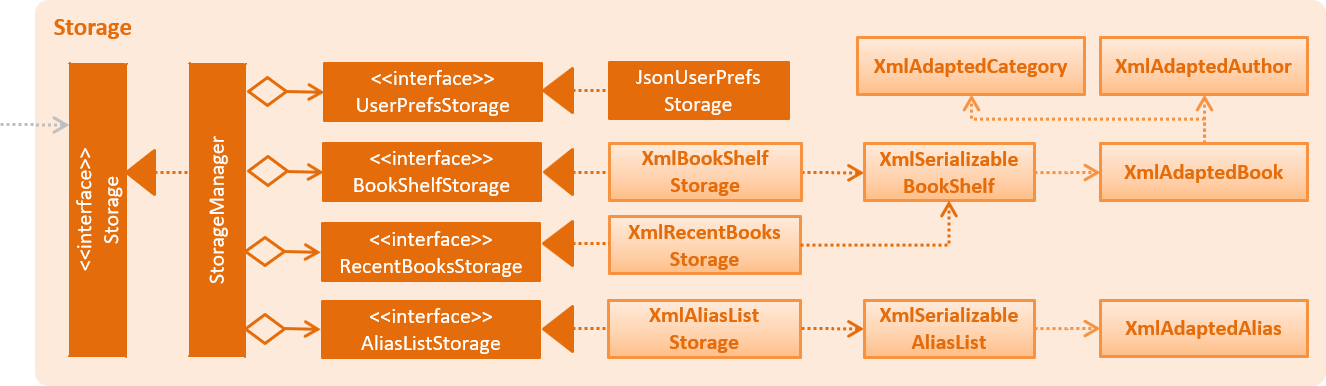
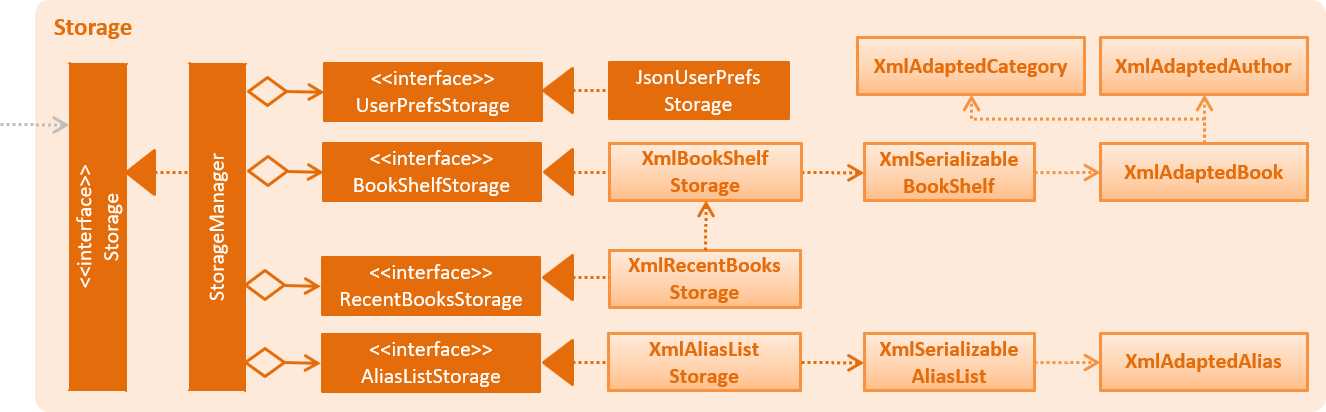
Remove duplicated code in XmlRecentBooksStorage, update class diagram (#167)

diff --git a/src/main/java/seedu/address/storage/XmlRecentBooksStorage.java b/src/main/java/seedu/address/storage/XmlRecentBooksStorage.java
@@ -1,17 +1,10 @@
 package seedu.address.storage;
 
-import static java.util.Objects.requireNonNull;
-
-import java.io.File;
 import java.io.FileNotFoundException;
 import java.io.IOException;
 import java.util.Optional;
-import java.util.logging.Logger;
 
-import seedu.address.commons.core.LogsCenter;
 import seedu.address.commons.exceptions.DataConversionException;
-import seedu.address.commons.exceptions.IllegalValueException;
-import seedu.address.commons.util.FileUtil;
 import seedu.address.model.ReadOnlyBookShelf;
 
 //@@author qiu-siqi
@@ -20,21 +13,19 @@ import seedu.address.model.ReadOnlyBookShelf;
  */
 public class XmlRecentBooksStorage implements RecentBooksStorage {
 
-    private static final Logger logger = LogsCenter.getLogger(XmlRecentBooksStorage.class);
-
-    private String filePath;
+    private XmlBookShelfStorage xmlBookShelfStorage;
 
     public XmlRecentBooksStorage(String filePath) {
-        this.filePath = filePath;
+        xmlBookShelfStorage = new XmlBookShelfStorage(filePath);
     }
 
     public String getRecentBooksFilePath() {
-        return filePath;
+        return xmlBookShelfStorage.getBookShelfFilePath();
     }
 
     @Override
     public Optional<ReadOnlyBookShelf> readRecentBooksList() throws DataConversionException, IOException {
-        return readRecentBooksList(filePath);
+        return xmlBookShelfStorage.readBookShelf();
     }
 
     /**
@@ -44,27 +35,12 @@ public class XmlRecentBooksStorage implements RecentBooksStorage {
      */
     public Optional<ReadOnlyBookShelf> readRecentBooksList(String filePath) throws DataConversionException,
             FileNotFoundException {
-        requireNonNull(filePath);
-
-        File file = new File(filePath);
-
-        if (!file.exists()) {
-            logger.info("Recent books file "  + file + " not found");
-            return Optional.empty();
-        }
-
-        XmlSerializableBookShelf xmlRecentBooksList = XmlFileStorage.loadBookShelfDataFromFile(new File(filePath));
-        try {
-            return Optional.of(xmlRecentBooksList.toModelType());
-        } catch (IllegalValueException ive) {
-            logger.info("Illegal values found in " + file + ": " + ive.getMessage());
-            throw new DataConversionException(ive);
-        }
+        return xmlBookShelfStorage.readBookShelf(filePath);
     }
 
     @Override
     public void saveRecentBooksList(ReadOnlyBookShelf recentBooksList) throws IOException {
-        saveRecentBooksList(recentBooksList, filePath);
+        xmlBookShelfStorage.saveBookShelf(recentBooksList);
     }
 
     /**
@@ -72,11 +48,6 @@ public class XmlRecentBooksStorage implements RecentBooksStorage {
      * @param filePath location of the data. Cannot be null
      */
     public void saveRecentBooksList(ReadOnlyBookShelf recentBooksList, String filePath) throws IOException {
-        requireNonNull(recentBooksList);
-        requireNonNull(filePath);
-
-        File file = new File(filePath);
-        FileUtil.createIfMissing(file);
-        XmlFileStorage.saveBookShelfDataToFile(file, new XmlSerializableBookShelf(recentBooksList));
+        xmlBookShelfStorage.saveBookShelf(recentBooksList, filePath);
     }
 }
